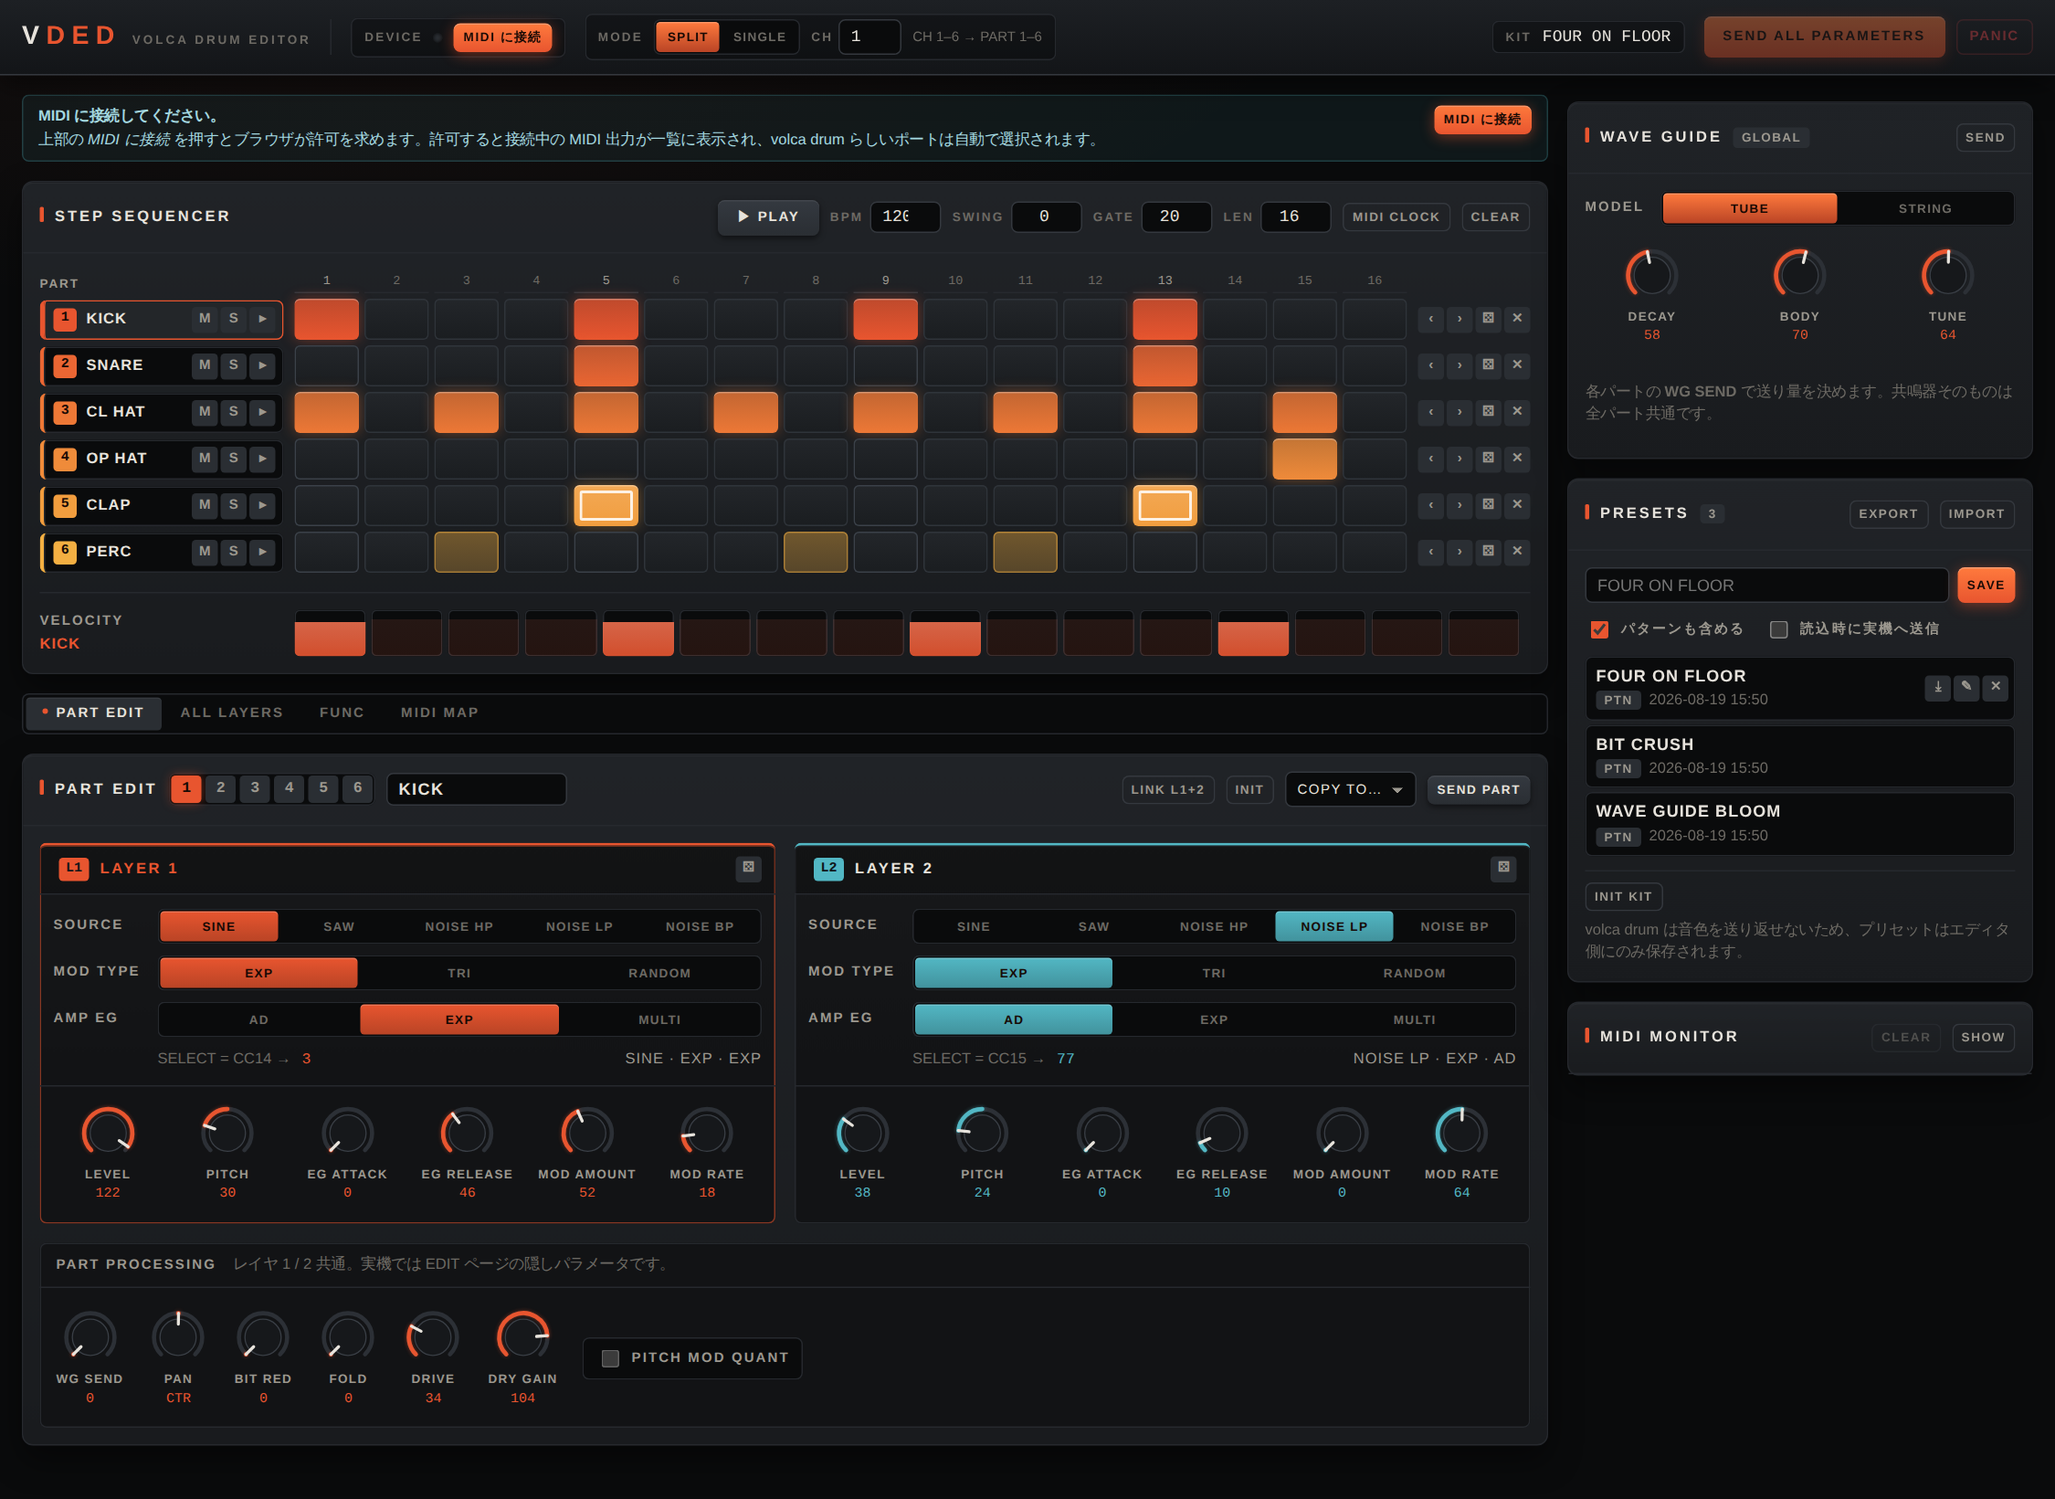
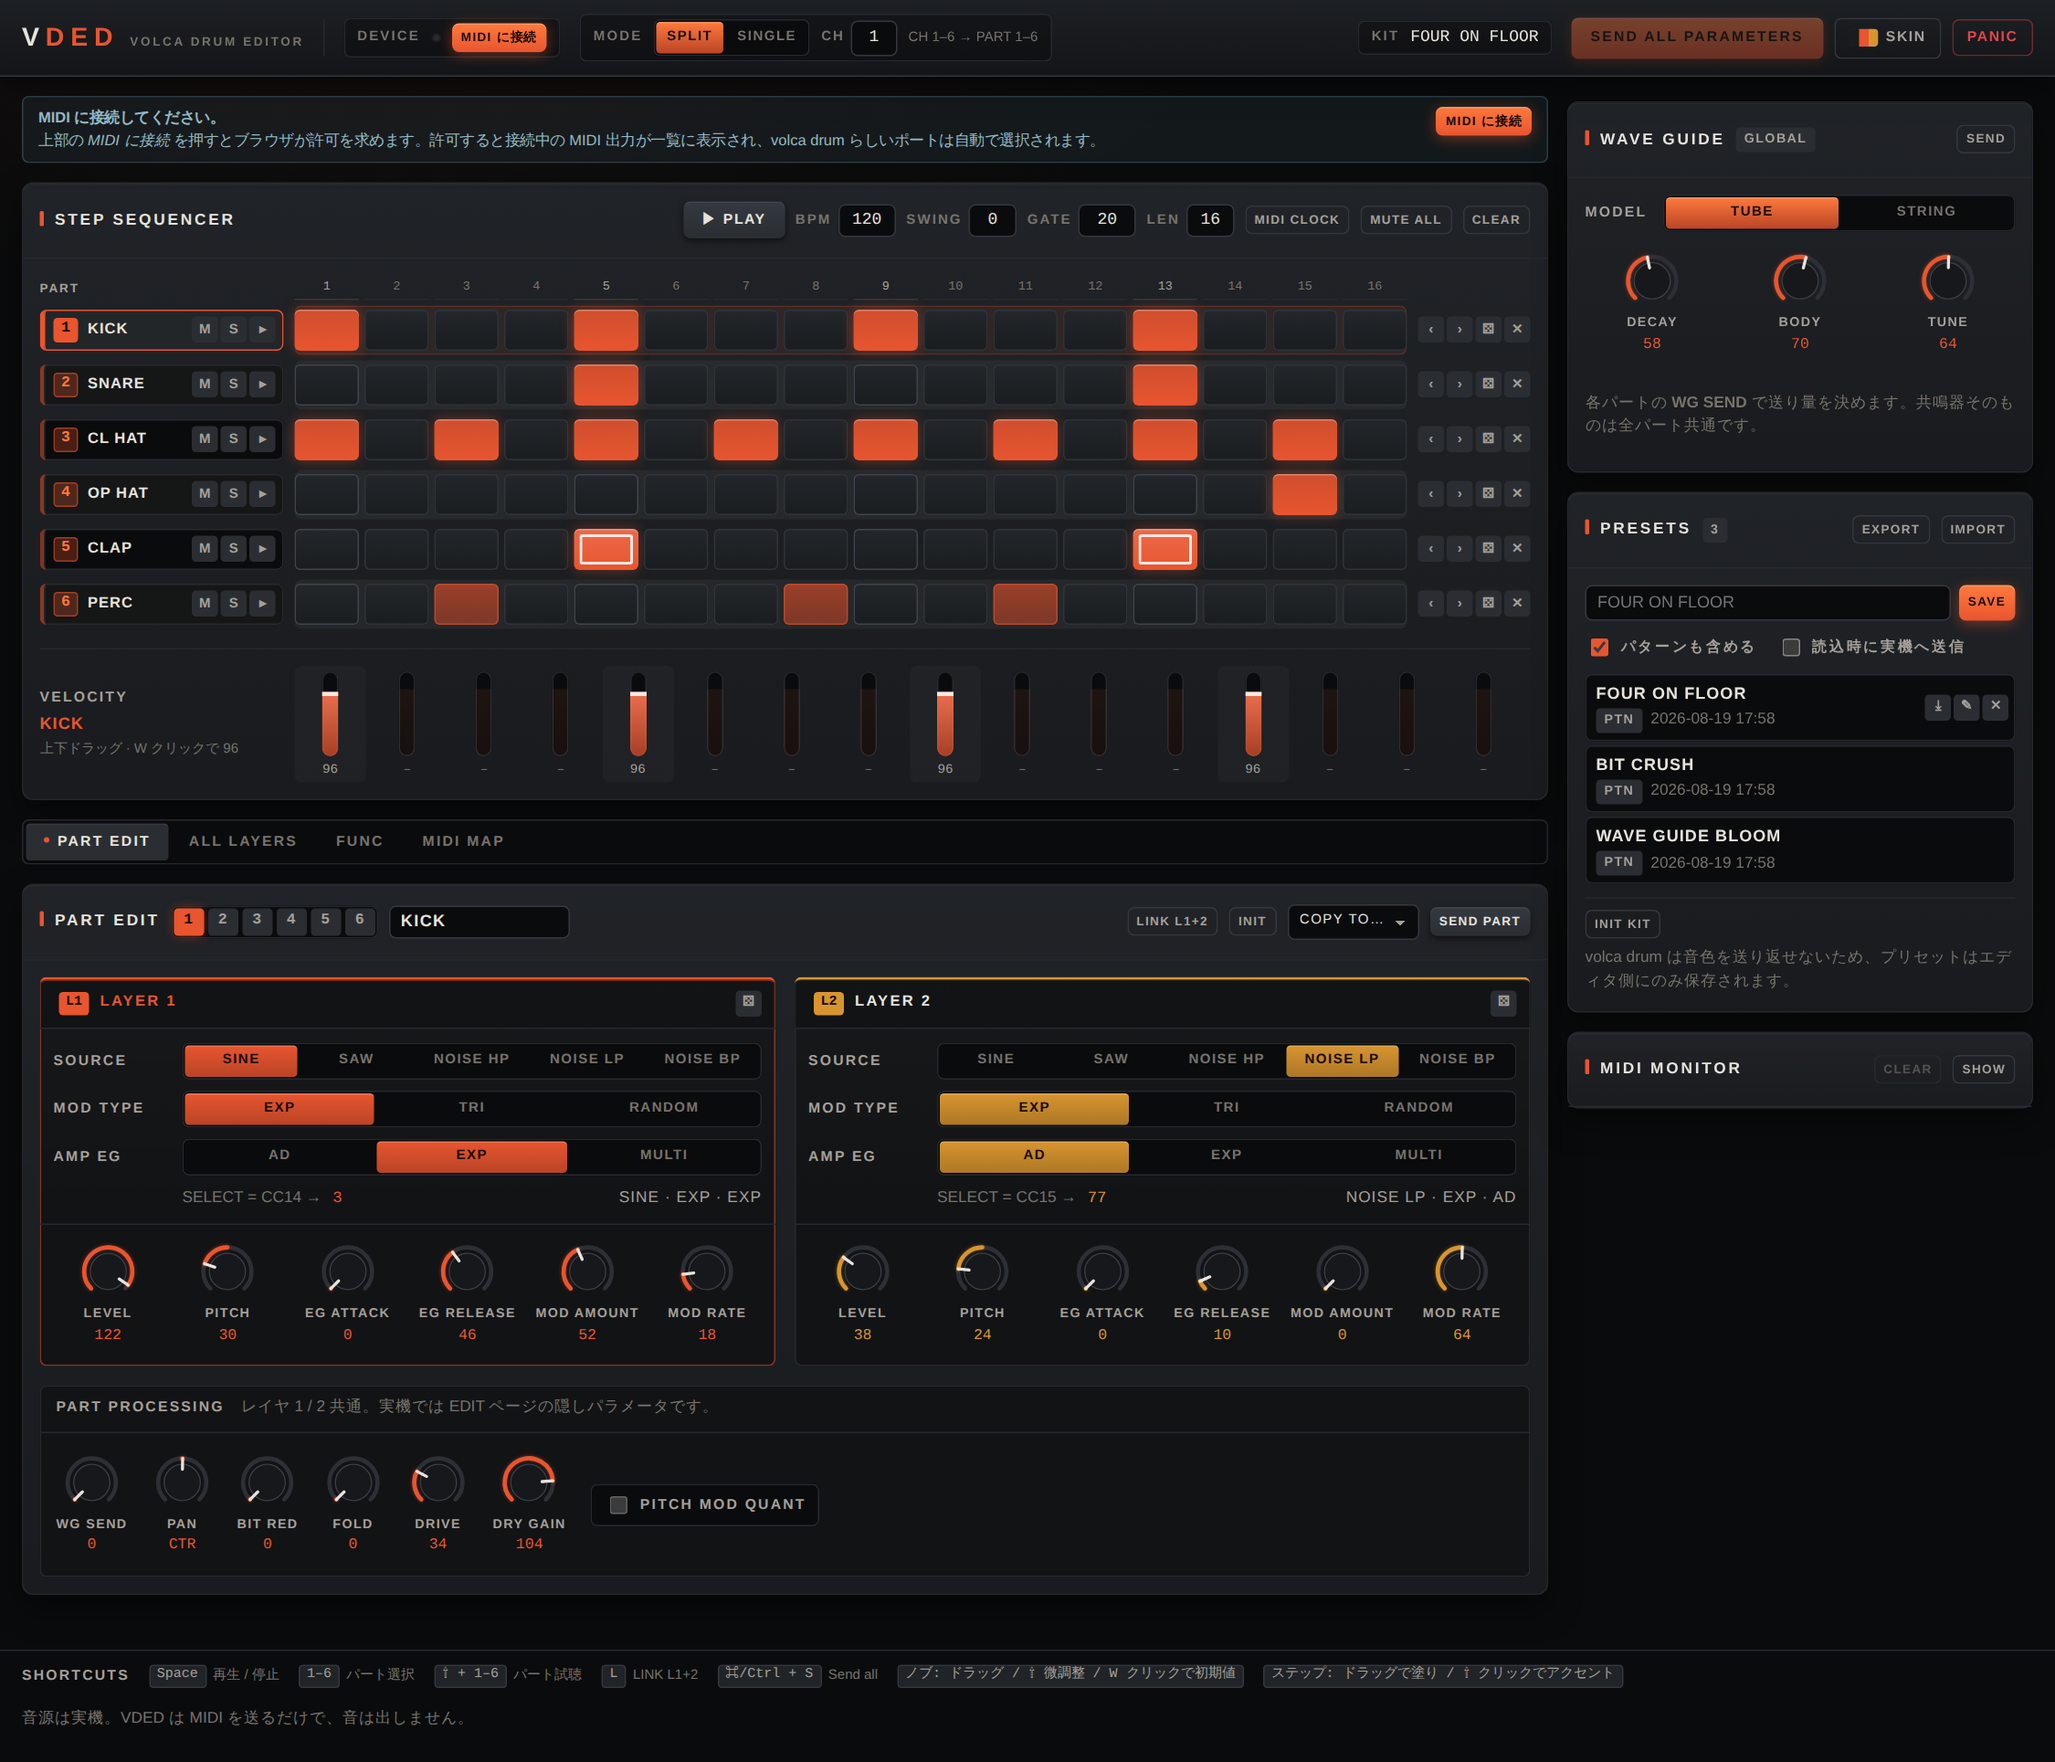
docs: cover skins, fonts, the velocity faders and what split/single actually split
The mode names describe the wiring, not the intent, so both the README and
the MIDI MAP panel now say it outright: split spreads the six parts across
six channels, single stacks them on one and distinguishes parts by CC number
instead — which is what you want when the sender only has one channel or a
DIN chain has several volcas to fit into sixteen.

diff --git a/src/components/MidiMapPanel.tsx b/src/components/MidiMapPanel.tsx
@@ -99,6 +99,20 @@ export function MidiMapPanel() {
       </div>
 
       <div className="panel__body ccmap">
+        <div className="banner banner--info">
+          <div>
+            <strong>split / single とは</strong>
+            <div>
+              split channel は「6 つのパートを 6 本の MIDI チャンネルに分割する」モードです
+              （パート n → CH {baseChannel + '–' + (baseChannel + PART_COUNT - 1)}）。CC 番号は全パート共通で、
+              どのパートに効くかはチャンネルで決まります。single channel はその逆で、1 本の
+              チャンネルにすべてを載せ、パートは CC 番号で区別します。チャンネルを 1 本しか
+              持てない送信側や、1 本の MIDI ケーブルに複数の volca を数珠つなぎしていて
+              チャンネルを節約したい場合のためのモードです。その代償として、レイヤ別制御と
+              BIT / FOLD / DRIVE / DRY GAIN が使えません。
+            </div>
+          </div>
+        </div>
         <div className="ccmap__options">
           <label className="checkbox">
             <input type="checkbox" checked={liveSend} onChange={(e) => setSettings({ liveSend: e.target.checked })} />
